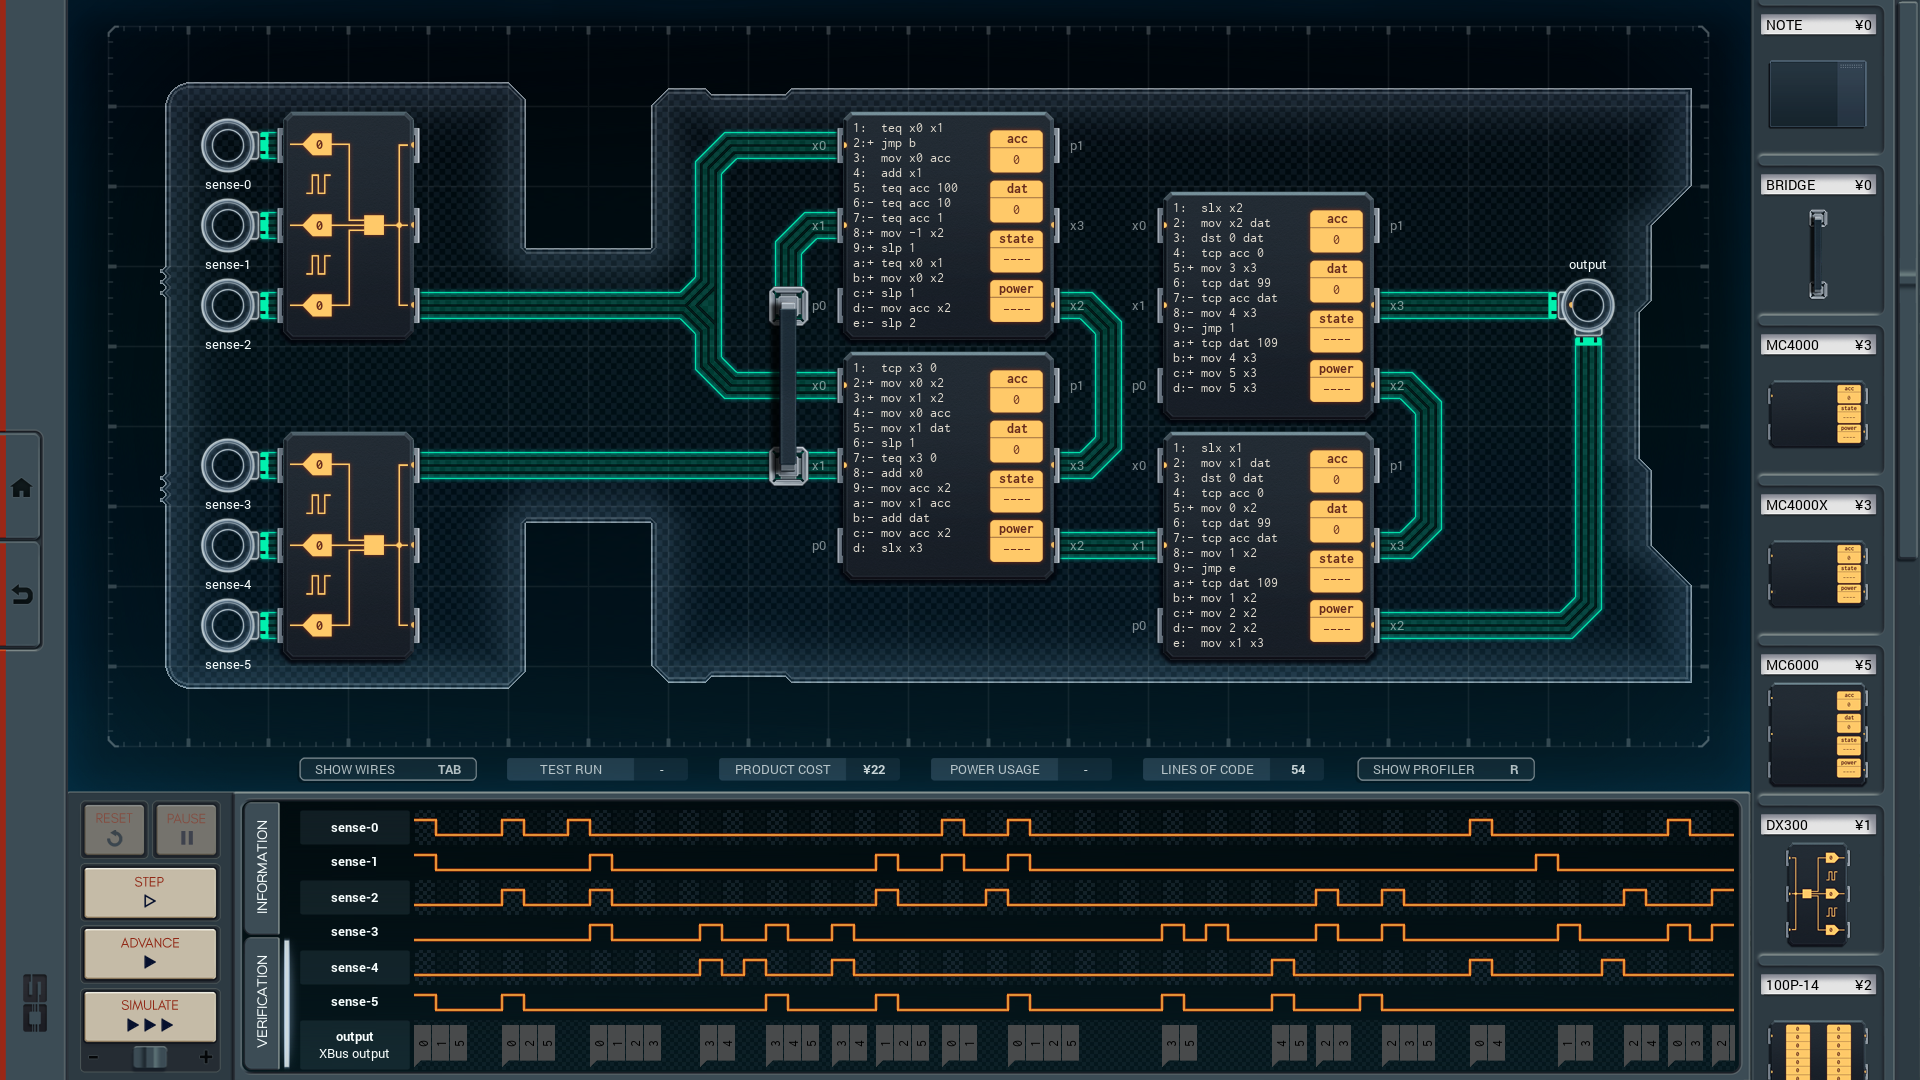
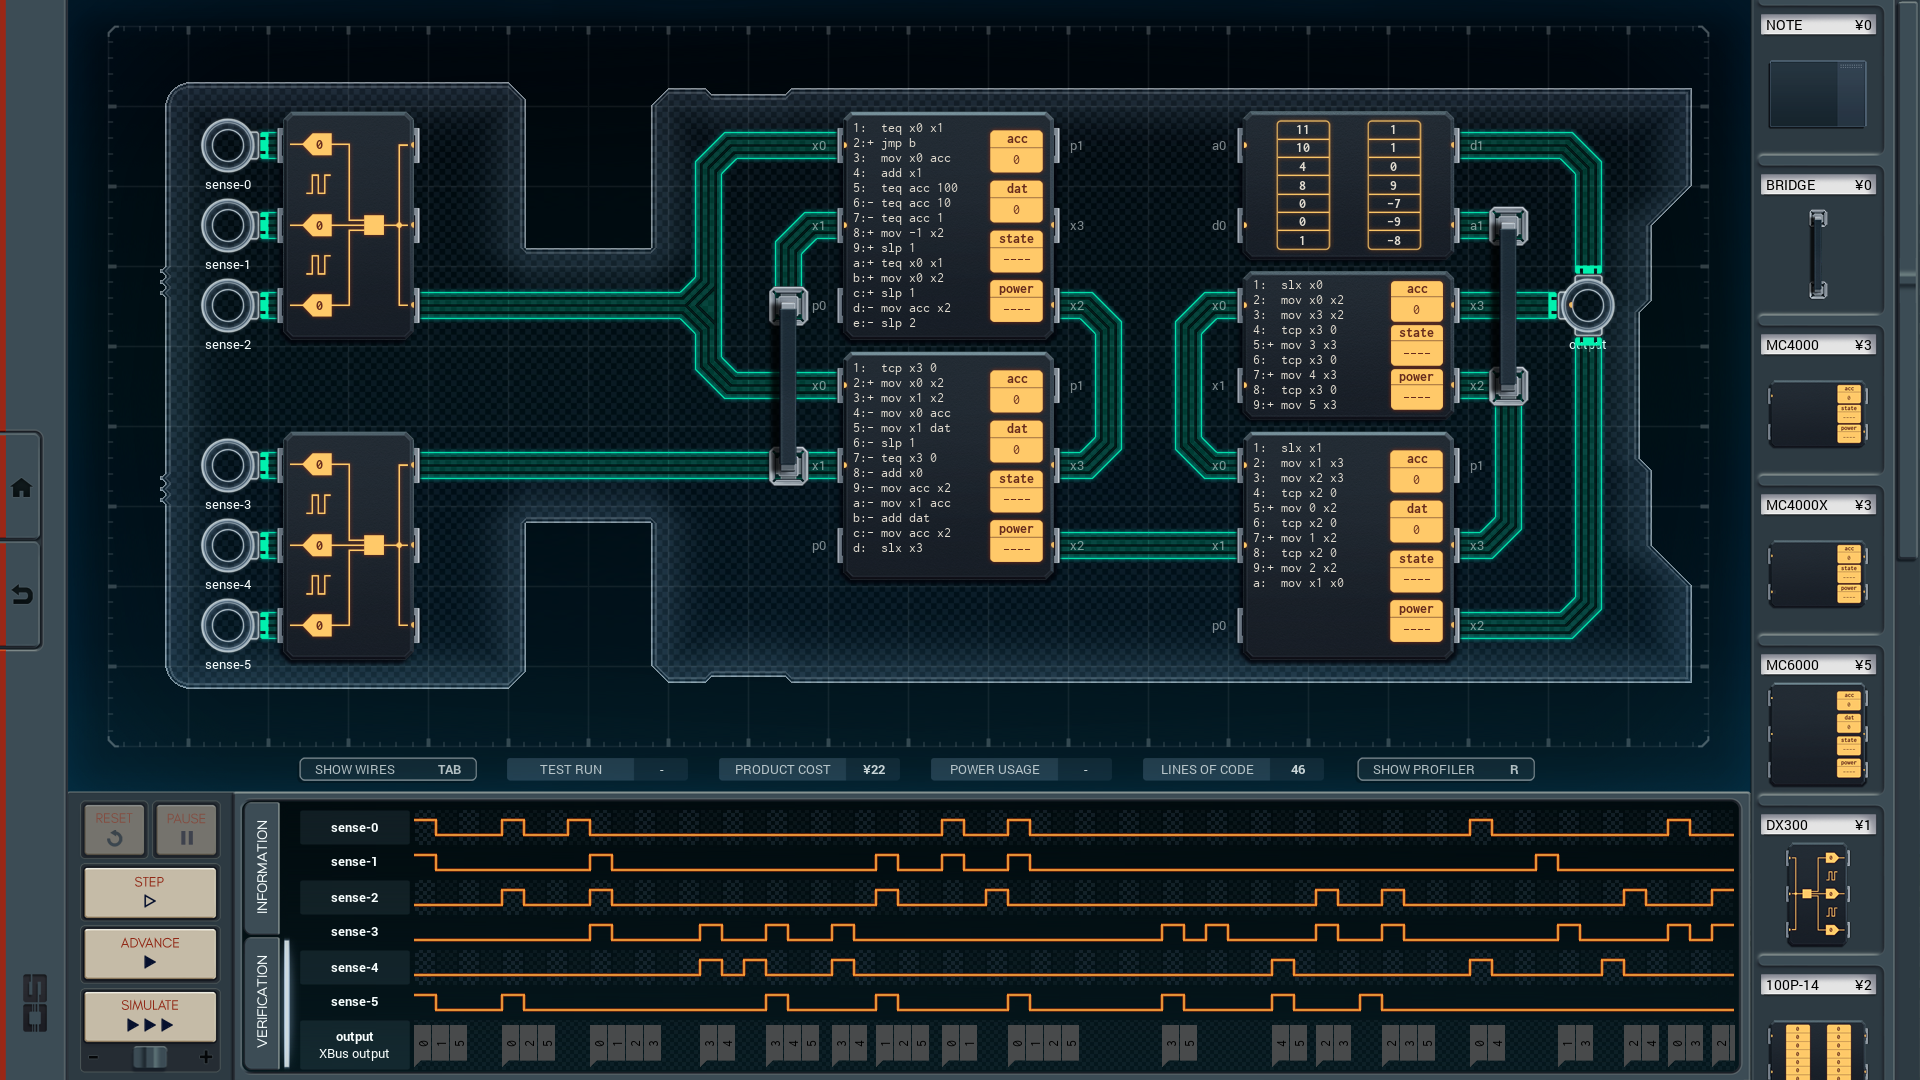
2023/02/16 Optimized the min power solution for Brain Computer Interface [BEF] 22C / 725P / 54L [AFT] 22C / 712P / 46L

Changed region(s): [[0.5938, 0.0917, 0.8438, 0.6417]]

diff --git a/039-brain-computer-interface/README.md b/039-brain-computer-interface/README.md
@@ -3,7 +3,7 @@
 
 ![screenshot0](https://github.com/shiawasenahikari/Shenzhen-IO-Solutions/blob/master/039-brain-computer-interface/screenshot0.png)
 
-22/725/54 (MIN POWER) SOLUTION
+22/712/46 (MIN POWER) SOLUTION
 ------------------------------
 
 ![screenshot1](https://github.com/shiawasenahikari/Shenzhen-IO-Solutions/blob/master/039-brain-computer-interface/screenshot1.png)
